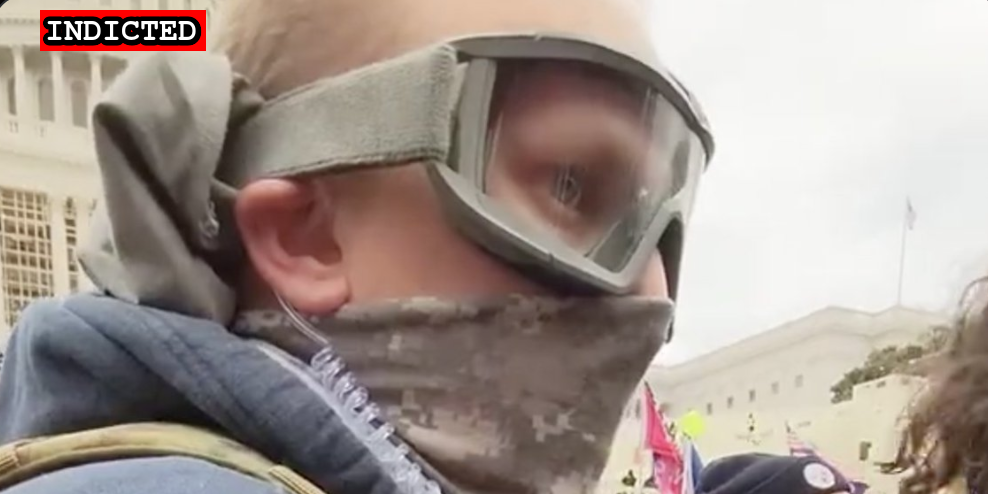
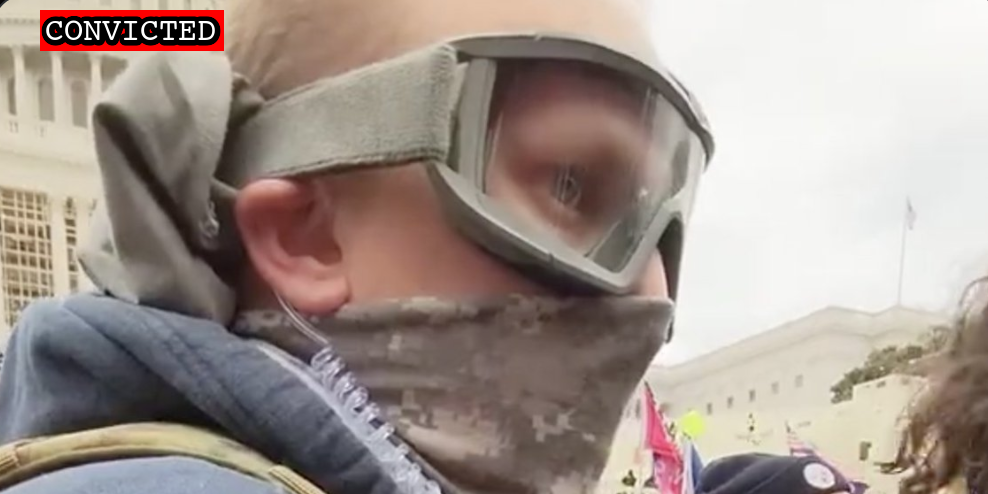
Matthew Greene

Changed region(s): [[0.0304, 0.0, 0.2429, 0.1215]]

diff --git a/docs/_suspects/matthew-greene.md b/docs/_suspects/matthew-greene.md
@@ -4,16 +4,16 @@ lastName: Greene
 hashtag: FesterPB
 aka:
 residence: New York
-status: Indicted
+status: Convicted
 date: 2021-04-21
 charged: 2021-04-21
 indicted: 2021-04-20
-convicted:
+convicted: 2021-12-22
 sentenced:
 dismissed:
 deceased:
-plea_hearing:
-sentencing:
+plea_hearing: 2021-12-22
+sentencing: 2022-03-10
 age: 33
 occupation:
 affiliations: Proud Boys
@@ -34,8 +34,17 @@ published: true
 caseNumber: 1:21-cr-52
 videos:
 charges:
+  - code: 18 USC § 371
+    title: Conspiracy to commit an offense against the United States
+    url: https://www.law.cornell.edu/uscode/text/18/371
+    felony: true
+  - code: 18 USC § 111(a)(1)
+    title: Assaulting, resisting, or impeding certain officers or employees
+    url: https://www.law.cornell.edu/uscode/text/18/111
+    felony: true
 sentence:
 ---
+
 - [News Report](https://spectrumlocalnews.com/nys/central-ny/public-safety/2021/04/21/syracuse--proud-boy--charged-in-jan--6-capitol-riot)
 - [Indictment](https://www.justice.gov/usao-dc/case-multi-defendant/file/1388681/download)
 - [FBI Statement (Twitter)](https://twitter.com/FBIAlbany/status/1384996862026035205)

diff --git a/docs/_suspects/james-elliott.md b/docs/_suspects/james-elliott.md
@@ -38,3 +38,4 @@ sentence:
 ---
 
 - [Indictment](https://extremism.gwu.edu/sites/g/files/zaxdzs2191/f/James%20Robert%20Elliott%20Indictment.pdf)
+- [DOJ Press Release](https://www.justice.gov/usao-dc/pr/illinois-man-arrested-assault-law-enforcement-during-jan-6-capitol-breach)
